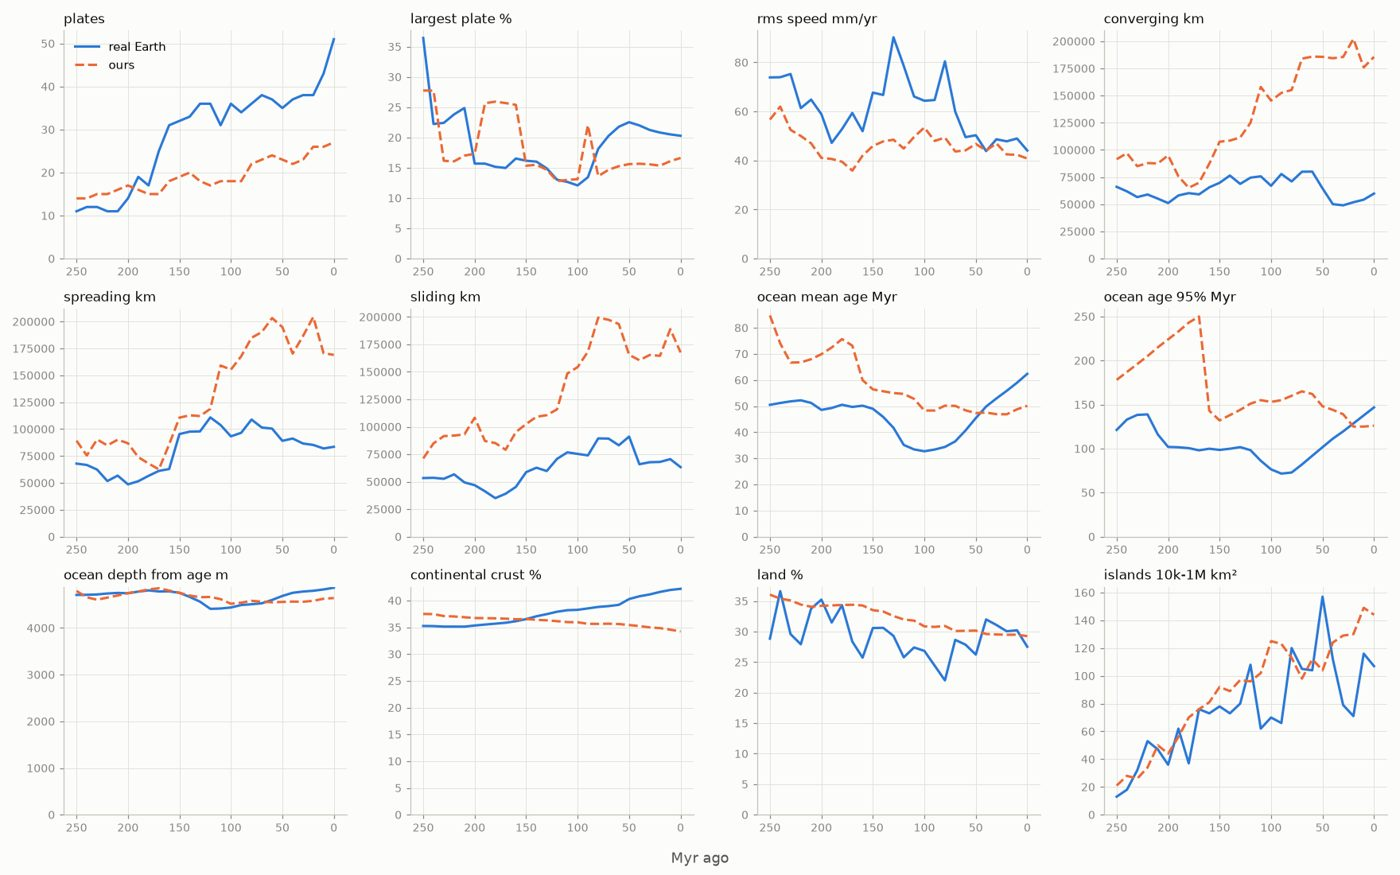
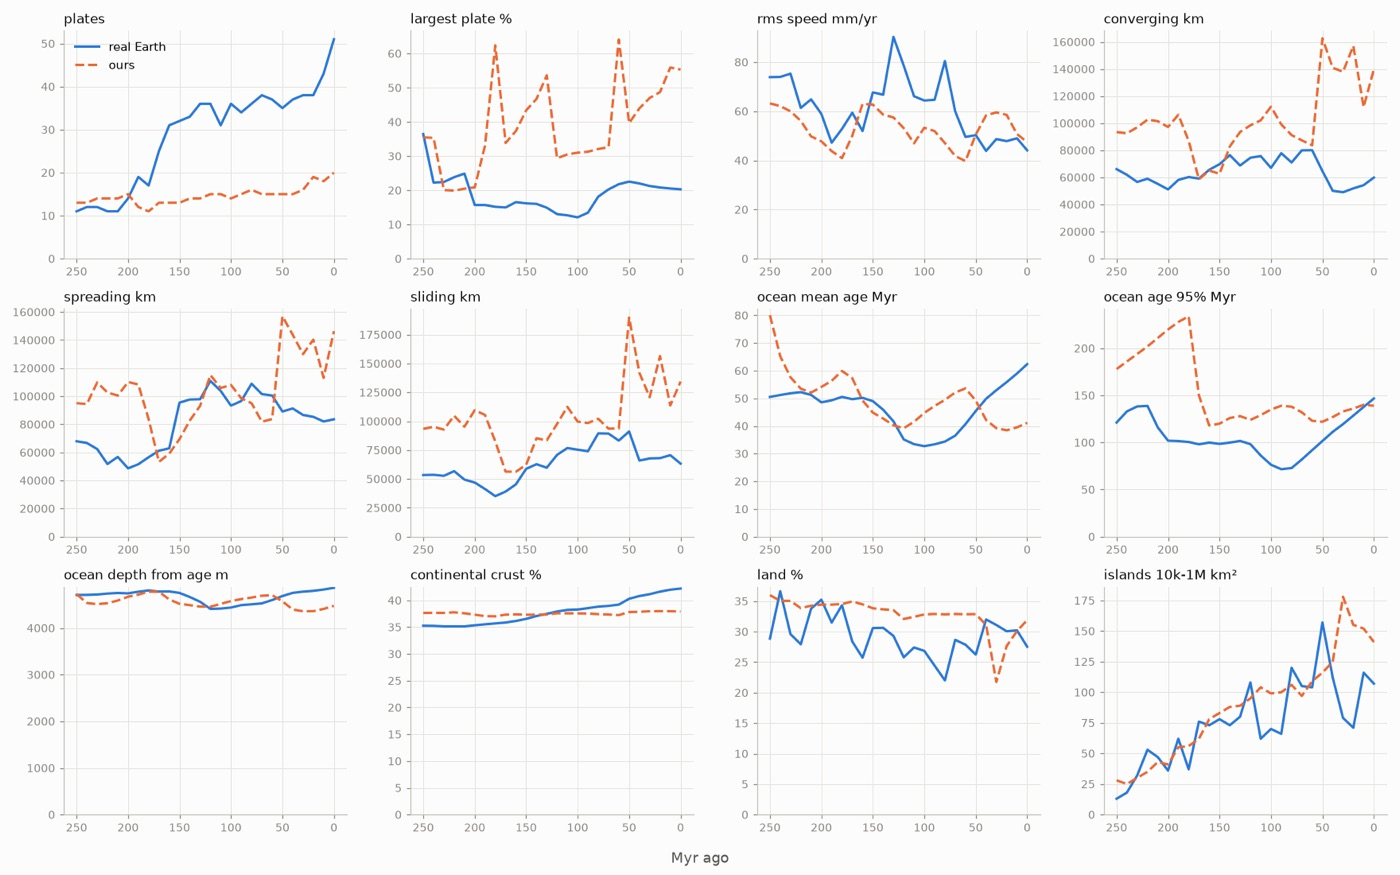
Rerun the comparison with the real Earth after the arc front was smoothed
Nothing changes for the player: this is the plate history measured again.

tools/plates_compare.py fetched nothing: EarthByte now answers urllib's
own user agent with 403, so the tool names itself.

Eleven seeds (1 to 10 and 12) were run before and after the smoothing
(the history of b50f5ba, which reproduces the first half's seed 7
figures exactly). The smoothing moves few medians beyond the spread of
the seeds; it makes more land masses of 10,000 km² to a million (149
today against 116; real 107). Seed 7, the default, now ends with one
ocean plate over 55% of the planet (median 27%, real 20%). The notes'
table now gives the eleven seeds' medians and ranges, and the pictures
are the current seed 7.

diff --git a/tools/plates_compare.py b/tools/plates_compare.py
@@ -27,6 +27,15 @@ AGES = "https://www.earthbyte.org/webdav/ftp/Data_Collections/Muller_etal_2019_T
 DEMS = "https://www.earthbyte.org/webdav/ftp/Data_Collections/Scotese_Wright_2018_PaleoDEM/Scotese_Wright_2018_Maps_1-88_1degX1deg_PaleoDEMS_nc.zip"
 
 
+def fetch(url, path):
+    """Download url to path. EarthByte refuses urllib's own user agent (403), so the tool names itself."""
+    request = urllib.request.Request(url, headers={"User-Agent": "odincraft-plates-compare"})
+    with urllib.request.urlopen(request) as response, open(path + ".part", "wb") as out:
+        while block := response.read(1 << 20):
+            out.write(block)
+    os.replace(path + ".part", path)
+
+
 def ours(folder, t):
     """Our frame t Myr ago, as the grids the measures read."""
     raw = np.fromfile(os.path.join(folder, "frame-%03d.raw" % t), dtype=np.uint8).reshape(H, W, 9)
@@ -55,7 +64,7 @@ class Real:
         if not glob.glob(os.path.join(dems, "**", "*.nc"), recursive=True):
             os.makedirs(dems, exist_ok=True)
             path = os.path.join(dems, "dems.zip")
-            urllib.request.urlretrieve(DEMS, path)
+            fetch(DEMS, path)
             zipfile.ZipFile(path).extractall(dems)
         found = [(re.search(r"_([0-9.]+)Ma\.nc$", f), f) for f in glob.glob(os.path.join(dems, "**", "*Ma.nc"), recursive=True)]
         self.dems = {float(m.group(1)): f for m, f in found if m}
@@ -101,7 +110,7 @@ class Real:
         path = os.path.join(self.data, "ages", "age-%d.nc" % t)
         if not os.path.exists(path):
             os.makedirs(os.path.dirname(path), exist_ok=True)
-            urllib.request.urlretrieve(AGES.format(t), path)
+            fetch(AGES.format(t), path)
         import netCDF4
         grid = netCDF4.Dataset(path)
         z = np.array(grid.variables["z"][:], dtype=float)

diff --git a/docs/interesting-world/notes/real-plates.md b/docs/interesting-world/notes/real-plates.md
@@ -64,56 +64,77 @@ The tool (`tools/plates_compare.py`) fetches these into a folder outside the rep
 
 ## Through time: the real Earth and ours, measured the same way
 
-`build/odincraft --plates=DIR` writes each frame on half-degree cells; `tools/plates_compare.py` builds the same cells for the real Earth from the references above, measures both with one function and draws them side by side. Ours here is the history as built in step 22's first half, seeds 7 and 1.
+`build/odincraft --plates=DIR` writes each frame on half-degree cells; `tools/plates_compare.py` builds the same cells for the real Earth from the references above, measures both with one function and draws them side by side. Ours here is the history as built in step 22's second half, whose arc front runs smoothly along each trench; the pictures are seed 7, the game's default, and the table eleven seeds (1 to 10 and 12), each run on its own and compared, since one seed's history is chaotic and a figure from one seed is not a figure. Run 2026-11-15.
 
 ![Today: ours (seed 7) on the left, the real Earth on the right; plates and their boundaries above (red converging, yellow spreading, white sliding), crust and land below](../real/plates-today.jpg)
 
 ![The figures through time, the real Earth solid blue, ours (seed 7) dashed orange](../real/plates-measures.jpg)
 
+"Ours" is the median of the eleven seeds with their range; "ours before" is the median of the same seeds before the arc front was smoothed (the history of step 22's first half, which reproduces that step's figures for seed 7 exactly).
+
 | Figure | | 250 Ma | 200 | 150 | 100 | 50 | today |
 |---|---|---|---|---|---|---|---|
 | Plates | real | 11 | 14 | 32 | 36 | 35 | 51 |
-| | seed 7 / 1 | 14 / 10 | 17 / 11 | 19 / 14 | 18 / 13 | 23 / 18 | 27 / 19 |
+| | ours | 11 (9–15) | 14 (7–18) | 15 (7–22) | 16 (11–23) | 15 (10–25) | 20 (10–28) |
+| | ours before | 11 | 13 | 16 | 15 | 18 | 19 |
 | Largest plate, % | real | 36 | 16 | 16 | 12 | 23 | 20 |
-| | seed 7 / 1 | 28 / 27 | 17 / 18 | 15 / 25 | 13 / 17 | 16 / 28 | 17 / 21 |
+| | ours | 41 (29–60) | 26 (21–54) | 32 (16–65) | 31 (19–40) | 27 (21–52) | 27 (14–55) |
+| | ours before | 34 | 27 | 26 | 28 | 24 | 27 |
 | Plate size slope | real | −0.37 | −0.27 | −0.43 | −0.39 | −0.43 | −0.42 |
-| | seed 7 / 1 | −0.88 / −0.37 | −0.69 / −0.35 | −0.42 / −0.53 | −1.3 / −0.41 | −0.66 / −0.45 | −0.42 / −0.63 |
+| | ours | −0.67 (−0.99 to −0.38) | −0.59 (−0.77 to −0.36) | −0.49 (−0.73 to −0.35) | −0.47 (−0.89 to −0.35) | −0.50 (−0.82 to −0.36) | −0.58 (−0.73 to −0.31) |
+| | ours before | −0.69 | −0.54 | −0.43 | −0.43 | −0.48 | −0.56 |
 | RMS speed, mm/yr | real | 74 | 59 | 68 | 64 | 50 | 44 |
-| | seed 7 / 1 | 57 / 44 | 41 / 46 | 46 / 55 | 54 / 44 | 47 / 47 | 41 / 56 |
-| Ocean plates / continent plates, mm/yr | real | 84 / 30 | 66 / 28 | 56 / 22 | 71 / 30 | 39 / 25 | 62 / 27 |
-| | seed 7 | 86 / 5 | 69 / 11 | 66 / 17 | 80 / 12 | 66 / 15 | 61 / 19 |
+| | ours | 51 (36–63) | 49 (44–59) | 47 (36–64) | 50 (37–60) | 42 (37–59) | 51 (39–58) |
+| | ours before | 53 | 51 | 46 | 54 | 48 | 44 |
+| Continent plates, mm/yr | real | 30 | 28 | 22 | 30 | 25 | 27 |
+| | ours | 4 (0–9) | 13 (6–36) | 17 (2–40) | 17 (5–24) | 18 (12–22) | 18 (3–24) |
+| | ours before | 4 | 12 | 14 | 19 | 21 | 19 |
 | Converging km (thousands) | real | 66 | 51 | 70 | 67 | 65 | 60 |
-| | seed 7 / 1 | 91 / 49 | 95 / 70 | 108 / 93 | 145 / 82 | 186 / 116 | 186 / 121 |
+| | ours | 78 (51–93) | 105 (72–137) | 114 (60–156) | 120 (74–189) | 145 (50–195) | 120 (85–216) |
+| | ours before | 79 | 99 | 99 | 129 | 133 | 130 |
 | Spreading km (thousands) | real | 68 | 49 | 95 | 93 | 89 | 84 |
-| | seed 7 / 1 | 89 / 65 | 87 / 65 | 111 / 92 | 155 / 83 | 195 / 125 | 169 / 118 |
-| Ocean floor, mean age Myr | real | 51 | 49 | 49 | 33 | 45 | 62 |
-| | seed 7 / 1 | 85 / 88 | 70 / 90 | 56 / 49 | 48 / 60 | 47 / 55 | 50 / 57 |
-| Ocean floor, 95% younger than, Myr | real | 121 | 102 | 99 | 76 | 102 | 147 |
-| | seed 7 / 1 | 178 / 175 | 224 / 220 | 132 / 148 | 153 / 161 | 148 / 151 | 126 / 169 |
-| Ocean depth from age, m | real | 4,709 | 4,743 | 4,753 | 4,439 | 4,686 | 4,862 |
-| | seed 7 / 1 | 4,793 / 4,994 | 4,748 / 4,950 | 4,754 / 4,547 | 4,519 / 4,781 | 4,559 / 4,664 | 4,642 / 4,670 |
+| | ours | 82 (64–108) | 110 (72–139) | 119 (67–155) | 124 (91–186) | 131 (48–174) | 127 (82–216) |
+| | ours before | 84 | 91 | 104 | 113 | 127 | 135 |
+| Ocean floor, mean age Myr | real | 50 | 49 | 49 | 33 | 45 | 62 |
+| | ours | 82 (70–95) | 65 (54–82) | 45 (40–65) | 50 (45–74) | 52 (39–78) | 44 (36–71) |
+| | ours before | 78 | 68 | 54 | 50 | 48 | 50 |
+| Ocean floor older than 120 Myr, % | real | 5 | 2 | 1 | 1 | 1 | 13 |
+| | ours | 37 (27–43) | 19 (11–25) | 6 (4–16) | 11 (7–21) | 9 (5–28) | 8 (5–22) |
+| | ours before | 33 | 19 | 10 | 14 | 8 | 10 |
 | Continental crust, % | real | 35 | 35 | 37 | 38 | 40 | 42 |
-| | seed 7 / 1 | 38 / 39 | 37 / 38 | 37 / 38 | 36 / 37 | 35 / 37 | 34 / 37 |
-| Land, % | real (PaleoDEM) | 29 | 35 | 31 | 27 | 26 | 28 |
-| | seed 7 / 1 | 36 / 38 | 34 / 35 | 34 / 34 | 31 / 33 | 30 / 32 | 29 / 31 |
+| | ours | 38 (38–39) | 38 (37–39) | 38 (36–38) | 38 (35–39) | 38 (33–39) | 38 (31–39) |
+| | ours before | 38 | 38 | 38 | 38 | 37 | 37 |
+| Land, % | real | 29 | 35 | 31 | 27 | 26 | 28 |
+| | ours | 37 (36–38) | 35 (34–36) | 34 (31–35) | 33 (31–35) | 32 (28–34) | 31 (27–33) |
+| | ours before | 37 | 35 | 34 | 33 | 32 | 31 |
 | Land over 1 km, % | real | 1.2 | 3.2 | 3.3 | 4.8 | 3.5 | 5.7 |
-| | seed 7 / 1 | 1.4 / 1.1 | 2.1 / 1.7 | 2.8 / 1.4 | 2.2 / 2.1 | 3.4 / 1.6 | 4.5 / 1.8 |
+| | ours | 1.0 (0.3–1.3) | 0.9 (0.3–1.8) | 1.1 (0.7–1.9) | 1.5 (0.8–2.9) | 1.7 (0.9–3.5) | 1.6 (1.1–3.6) |
+| | ours before | 0.9 | 1.0 | 1.2 | 1.5 | 1.6 | 1.9 |
 | Land masses over a million km² | real | 1 | 1 | 4 | 8 | 7 | 6 |
-| | seed 7 / 1 | 1 / 2 | 2 / 3 | 8 / 4 | 5 / 5 | 9 / 6 | 5 / 6 |
+| | ours | 2 (1–5) | 3 (1–5) | 3 (1–6) | 4 (2–6) | 5 (3–8) | 6 (3–10) |
+| | ours before | 2 | 3 | 4 | 5 | 6 | 6 |
 | Largest land mass, million km² | real | 147 | 177 | 78 | 60 | 44 | 78 |
-| | seed 7 / 1 | 183 / 191 | 164 / 165 | 57 / 138 | 83 / 58 | 78 / 61 | 82 / 87 |
+| | ours | 180 (158–188) | 170 (82–182) | 147 (79–173) | 89 (80–168) | 82 (44–140) | 85 (39–130) |
+| | ours before | 178 | 165 | 158 | 84 | 81 | 87 |
 | Land masses of 10,000 km² to a million | real | 13 | 36 | 78 | 70 | 157 | 107 |
-| | seed 7 / 1 | 21 / 34 | 44 / 57 | 92 / 56 | 125 / 62 | 104 / 67 | 144 / 93 |
+| | ours | 30 (20–65) | 48 (41–88) | 83 (70–97) | 99 (85–125) | 132 (96–153) | 149 (130–200) |
+| | ours before | 25 | 55 | 68 | 82 | 104 | 116 |
 
 What the comparison says, and what it does not:
 
-- **Both start as one supercontinent and break it up**, ours by rifts drawn from the seed after 30 Myr, the real one from the mid-Jurassic. The real world goes from 1 land mass over a million km² to 6–8; ours to 5–9.
-- **Our boundaries are too long.** With 27 plates against 51, seed 7 has three times the converging boundary. Most of it is cells of one plate left inside another along converging edges, and continents stretched into stripes along rifts; seed 1, with fewer plates, is within 1.3 to 2 times. A boundary length is the best single test of how clean the plates are.
-- **Our first ocean floor survives too long.** Ours starts with old ocean round the first continent, and until about 150 Ma 18–40% of our ocean floor is older than 120 Myr against 1–5%. Old ocean founders only by a row's chance; on the real Earth it is all subducted by about 180 Myr.
-- **Our continents shrink; the real ones grow.** 38% to 34% against 35% to 42%. Collisions stack crust and lose area, and arcs mature into continent too slowly. Part of the real growth is the model's own: more continental fragments are mapped in recent times *(inference)*.
-- **Continental plates are too slow** (5 to 19 mm/yr against 22 to 30): ridge push and trench suction are the only forces on a plate without slabs.
+- **Both start as one supercontinent and break it up**, ours by rifts drawn from the seed after 30 Myr, the real one from the mid-Jurassic. The real world goes from 1 land mass over a million km² to 6–8; ours from 2 to 6. Ours breaks up later: at 150 Ma our largest land mass is still 147 million km² against 78.
+- **We have too few plates and too much boundary.** 20 plates today against 51, yet twice the converging and one and a half times the spreading boundary. Most of it is cells of one plate left inside another along converging edges, and continents stretched into stripes along rifts. A boundary length is the best single test of how clean the plates are.
+- **One plate can take half the planet.** Seed 7's largest plate today covers 55% of it (real 20%; the seeds' median 27%, range 14–55%): a single ocean plate round most of the world. Before the smoothing, seed 8's covered 79%. Whether such a plate grows by joining others or by spreading is not yet traced.
+- **Our first ocean floor survives too long.** Ours starts with old ocean round the first continent, and at 250 Ma 37% of our ocean floor is older than 120 Myr against 5%, at 200 Ma 19% against 2%. Old ocean founders only by a row's chance; on the real Earth it is all subducted by about 180 Myr.
+- **Our continents hold level; the real ones grow.** 38% throughout against 35% to 42%. Collisions stack crust and lose area, and arcs mature into continent too slowly. Part of the real growth is the model's own: more continental fragments are mapped in recent times *(inference)*.
+- **Continental plates are too slow early** (4 mm/yr at 250 Ma against 30, 18 against 27 today): ridge push and trench suction are the only forces on a plate without slabs.
+- **Too little high land.** 1.6% of the land stands over 1 km today against 5.7%, on every seed (1.1 to 3.6%).
+- **Close**: plate speeds (RMS 42 to 51 mm/yr against 44 to 74), ocean depth from age (4,510 to 4,860 m against 4,690 to 4,860), land's share (31% today against 28%), land masses over a million km² today (6 against 6), and the largest land mass today (85 million km² against 78).
+- **What smoothing the arc front changed.** It changes every seed's history, since the history is chaotic, but moves few medians beyond the spread of the seeds. The one steady change is more land masses of 10,000 km² to a million after 150 Ma (149 today against 116 before; real 107), perhaps because a front that runs on along a trench builds a chain where one that jumped every 36 km scattered its vents *(inference, not traced)*. Today's ocean floor is younger (mean 44 Myr against 50 before; real 62), and old ocean at 150 Ma rarer (6% against 10%; real 1%).
 - **Real land is the PaleoDEMs'** in another reconstruction's frame; it measures the land and its heights but is not drawn on Müller's plates. The real map's green is today's coastlines carried back, which is not the land of the time.
 - The real model's plate count rises toward today partly because recent plates are better known *(inference)*; our count is the history's own.
+
+How the table was made: for each seed, `build/odincraft --seed=N --plates=DIR` and `tools/plates_compare.py DIR DATA OUT`; the medians and ranges are taken over the eleven `measures.csv`. The history's first half was built from commit `b50f5ba` for "ours before".
 
 ## Not verified
 

diff --git a/docs/foundations/plates.md b/docs/foundations/plates.md
@@ -88,14 +88,15 @@ Built 2026-11-15 in part (`foundations.md`, "Step 22, second half, as built"): i
 | At 24 km cells (884,736) | 5.6 s | seed 7, a scratch build |
 | Drawing 26 frames and the known world at 1 km | 1.1–1.4 s | |
 | `--plates-why` (the history twice, every field every step the second time) | 5.4 s | |
-| The comparison script, 26 frames both worlds | 13 s | |
+| The comparison script, 26 frames both worlds | 13 s | after the first run, which fetches 270 MB of reference data |
 
 The passes over cells run on a crew of 10 threads, each with a fixed share and its own sums, added in order, so the history is the same on any machine (checked: two runs give identical grids). Memory: two crust grids of 32 bytes a cell, about 25 MB, plus 61 MB of frames kept for drawing. The guess in `foundations.md` section 7 was about a second; the history is two to three times that, run once at world creation.
 
 ## 9. Risks and what is weak
 
 - **The known world's islands are the weakest part.** Its map at 1 km blends 36 km cells; coasts follow the cells despite a warp, and windows chosen on seeds 7, 1, 3 and 12 hold 2 to 16 islands of a km² or more, mostly vents. The real Izu arc has a dozen islands in 600 km. Reading the regions (section 6) is the second half, and it may need the regional history of D1's alternative (c).
-- **Boundaries are two to three times the real length** on seed 7 (stray cells along converging edges; continents stretched into stripes along rifts).
+- **Boundaries are about twice the real length**: converging boundary 1.4 to 3.6 times the real today over eleven seeds, with 20 plates against 51 (stray cells along converging edges; continents stretched into stripes along rifts).
+- **One plate can take half the planet**: seed 7, the default, ends with an ocean plate over 55% of it (the seeds' median 27%, real 20%).
 - **The first ocean floor survives too long**, continents shrink where the real ones grow, and continental plates are too slow (`real-plates.md`).
 - **The outcome depends on the grid**: at 24 km the same seed ends with one plate of 204 million km². The history is chaotic; seeds differ more than any tuning, which is what a seed is for, but a figure from one seed is not a figure.
 - **The plate count is the balance of rows' chances and joins**, tuned on seeds 7 and 1 by the comparison; seeds 3 and 12 end with 33 and 10 plates.

diff --git a/docs/foundations.md b/docs/foundations.md
@@ -1213,7 +1213,7 @@ Not done:
 - **The volcanic kinds by cause.** Cone, crater and domes all stand on the front and alternate by the draw and the neighbour rule.
 - **A young hotspot shield**, which no kind makes; it is left out, as before.
 - **Latitude**: every island at 30° N, though the known world lies at 20 to 40° N (step 25).
-- **The comparison with the real Earth** after the arc front was smoothed.
+- **The comparison with the real Earth** after the arc front was smoothed. *Rerun 2026-11-15 on eleven seeds (`interesting-world/notes/real-plates.md`, "Through time"): the smoothing moves few figures beyond the spread of the seeds. It makes more land masses of 10,000 km² to a million (149 today against 116 before; real 107), and seed 7, the default, now has one plate over 55% of the planet (the seeds' median 27%, real 20%).*
 
 Weak points: the outer high's relief (2,500 m) and its stretches are guesses; the forearc's own rise is a row of the reading, not the history's; the history's settings come from its nearest 36 km cell, so an island's history row can name another trench than the one its front is read from (the default island's crust lies on a plate that sinks at one trench and rides over another); the start is always on the seed's kind, so a seed whose window holds no forearc puts the start where its host holds best, partly; entering depends on which islands lie within 64 km, so a seed with a 14.3 km island near the start enters in about 2 s; `src/` grew by about 380 lines of Odin: `known.odin` (307), `archipelago.odin` (446 to 572, the stand-in replaced), `plates.odin` (40 more); the judge of every picture was Claude.
 

diff --git a/tools/README.md b/tools/README.md
@@ -24,4 +24,4 @@ mkdir -p out && ./build.sh && build/odincraft --plates=out/plates   # the game's
 .venv/bin/python tools/plates_compare.py out/plates ~/plate-data out/compare
 ```
 
-The second argument is a folder outside the repository where the reference data is downloaded on the first run (it needs a network connection): the plate model and ocean-floor age grids of Müller et al. 2019, through `plate-model-manager`, and the PALEOMAP PaleoDEMs of Scotese & Wright 2018, from EarthByte. All are CC BY 4.0. The output folder gets `measures.csv`, a sheet per frame comparing the two Earths and `measures.png`, the figures through time. It draws its labels with macOS's Arial, so, like the game, it runs only on macOS as written. See [`docs/interesting-world/notes/real-plates.md`](../docs/interesting-world/notes/real-plates.md) for what the measures mean.
+The second argument is a folder outside the repository where the reference data is downloaded on the first run (about 270 MB; it needs a network connection): the plate model and ocean-floor age grids of Müller et al. 2019, through `plate-model-manager`, and the PALEOMAP PaleoDEMs of Scotese & Wright 2018, from EarthByte. All are CC BY 4.0. The output folder gets `measures.csv`, a sheet per frame comparing the two Earths and `measures.png`, the figures through time. It draws its labels with macOS's Arial, so, like the game, it runs only on macOS as written. See [`docs/interesting-world/notes/real-plates.md`](../docs/interesting-world/notes/real-plates.md) for what the measures mean.
